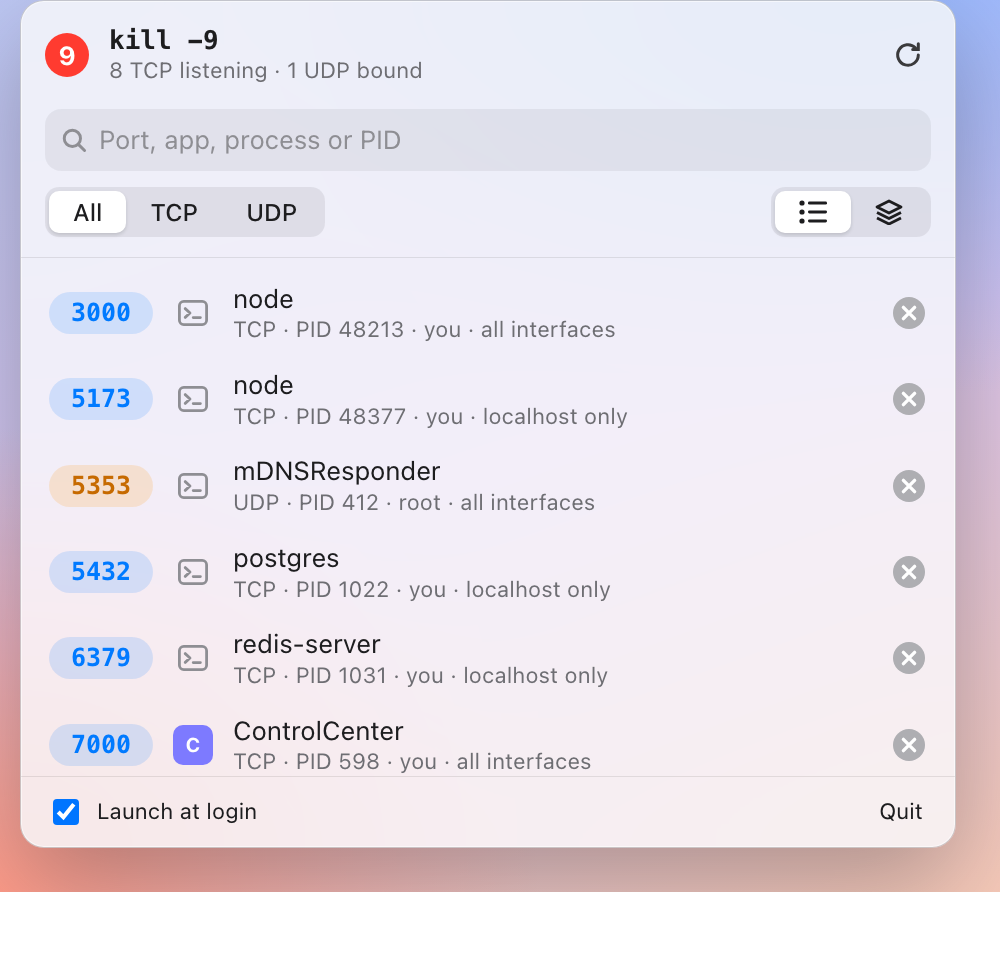
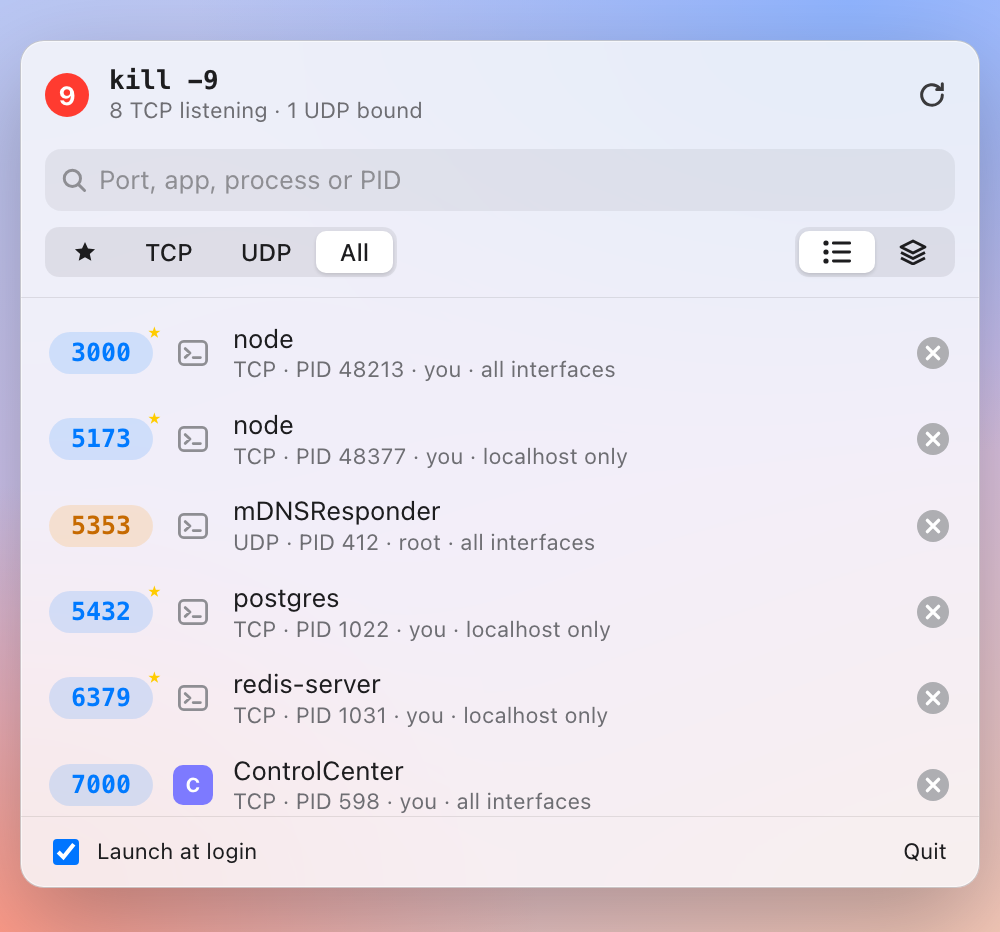
update readme

diff --git a/README.md b/README.md
@@ -9,7 +9,7 @@ It's a friendly GUI for `kill -9 $(lsof -ti tcp:3000)`.
 
 [**Download for macOS**](https://github.com/masb3/kill9/releases/latest/download/Kill9.dmg) · [Website](https://masb3.github.io/kill9/) · [Build from source](#build-from-source)
 
-<img src="docs/screenshot.png" alt="Kill9 menu-bar window listing ports 3000, 5173, 5353, 5432, 6379 and 7000 with the process holding each one" width="480">
+<img src="docs/screenshot.png" alt="Kill9 menu-bar window with Favorites, TCP, UDP and All filters, listing ports 3000, 5173, 5353, 5432, 6379 and 7000 with the process holding each one; favorite ports are marked with a star" width="480">
 
 </div>
 
